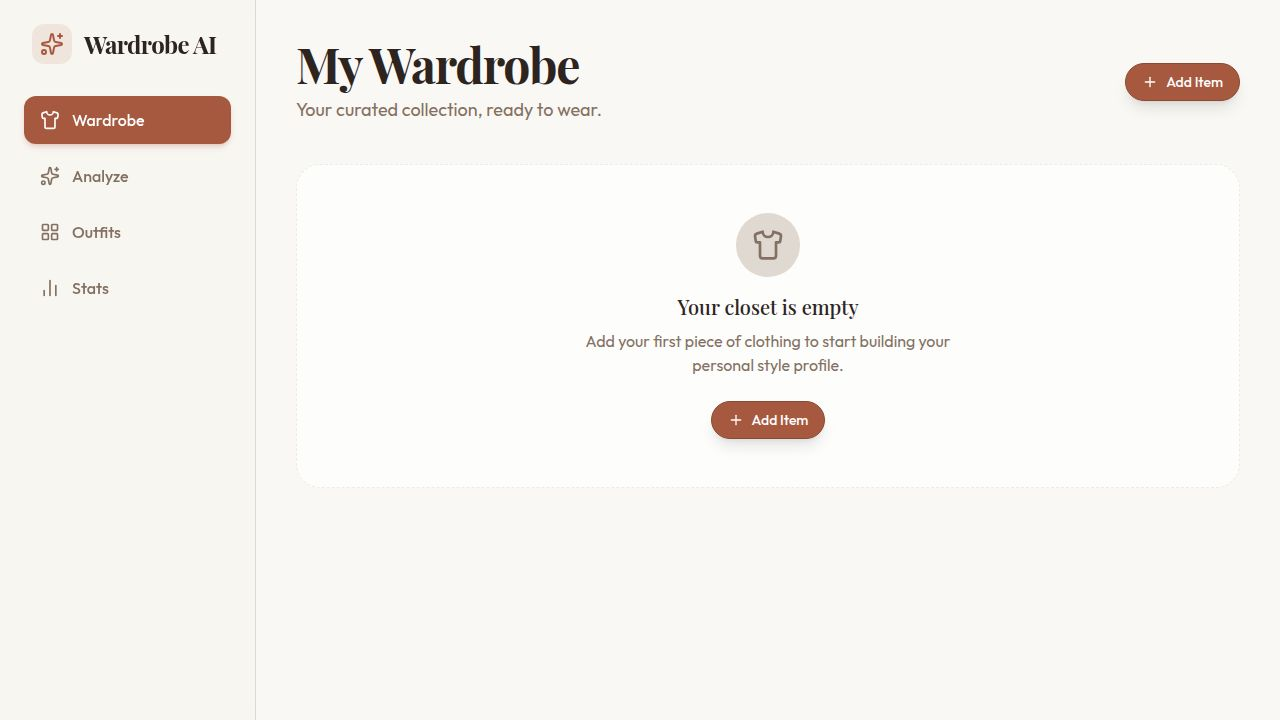
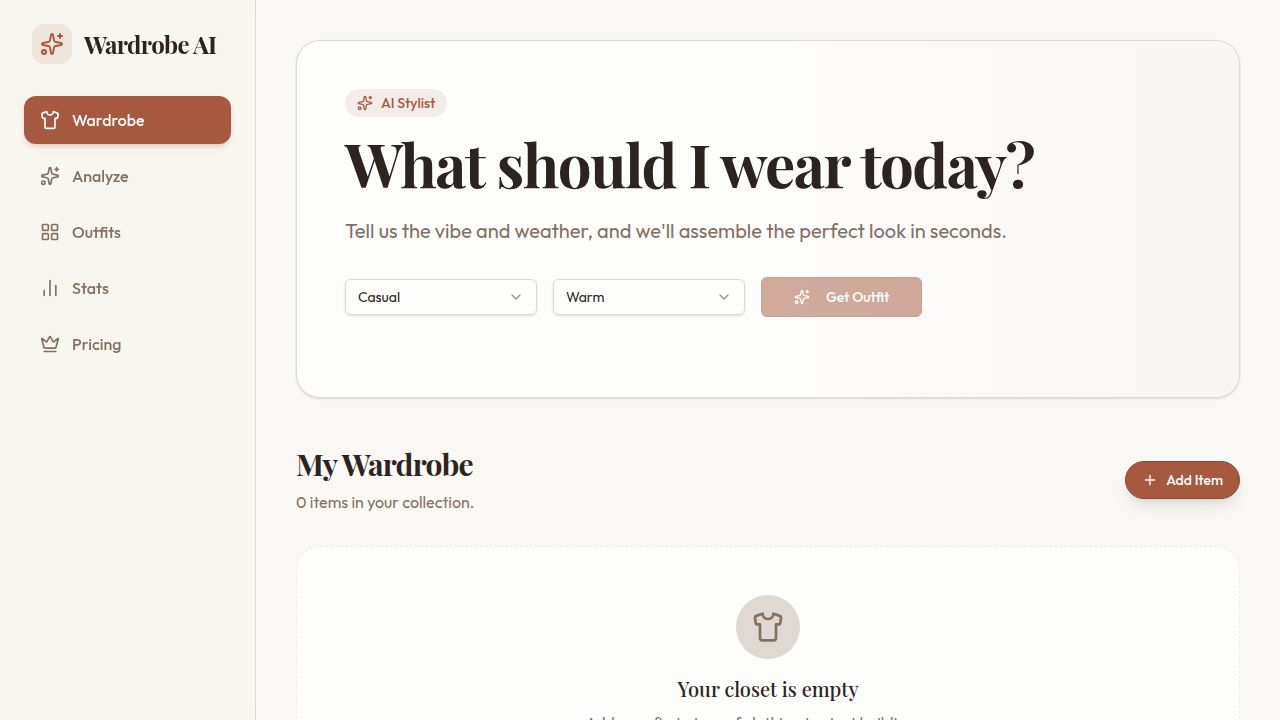
Switch AI provider from OpenAI to Gemini for outfit and clothing analysis
Replace OpenAI API calls with Gemini API calls in clothing and outfit generation routes. Update dependencies and install `@user/genai` package.

Replit-Commit-Author: Agent
Replit-Commit-Session-Id: eca70d2a-b81c-441b-a451-2554d6d1b7be
Replit-Commit-Checkpoint-Type: full_checkpoint
Replit-Commit-Event-Id: 7df77607-bea0-4575-bdbe-069fa80d6dcb
Replit-Commit-Screenshot-Url: https://storage.googleapis.com/screenshot-production-us-central1/61ad7f94-afbc-423e-b970-88571a67cafa/eca70d2a-b81c-441b-a451-2554d6d1b7be/6CeKJDh
Replit-Helium-Checkpoint-Created: true

diff --git a/artifacts/api-server/src/routes/clothing.ts b/artifacts/api-server/src/routes/clothing.ts
@@ -10,13 +10,11 @@ import {
   DeleteClothingItemParams,
   AnalyzeClothingItemParams,
 } from "@workspace/api-zod";
-import OpenAI from "openai";
+import { GoogleGenAI } from "@google/genai";
 
 const router = Router();
 
-const openai = new OpenAI({
-  apiKey: process.env.OPENAI_API_KEY,
-});
+const genai = new GoogleGenAI({ apiKey: process.env.GEMINI_API_KEY });
 
 function toClothingItemResponse(item: typeof clothingItems.$inferSelect) {
   return {
@@ -162,19 +160,20 @@ router.post("/clothing/:id/analyze", async (req, res) => {
       ? `${process.env.REPLIT_DEV_DOMAIN ? `https://${process.env.REPLIT_DEV_DOMAIN}` : "http://localhost:80"}/api/storage${item.imagePath}`
       : item.imageUrl;
 
-    const response = await openai.chat.completions.create({
-      model: "gpt-5-mini",
-      max_completion_tokens: 512,
-      messages: [
+    // Fetch image and convert to base64 for Gemini inline data
+    const imageResp = await fetch(imageUrl);
+    if (!imageResp.ok) throw new Error(`Failed to fetch image: ${imageResp.status}`);
+    const imageBuffer = await imageResp.arrayBuffer();
+    const base64Image = Buffer.from(imageBuffer).toString("base64");
+    const mimeType = imageResp.headers.get("content-type") ?? "image/jpeg";
+
+    const response = await genai.models.generateContent({
+      model: "gemini-2.5-flash",
+      contents: [
         {
-          role: "user",
-          content: [
+          parts: [
+            { inlineData: { mimeType, data: base64Image } },
             {
-              type: "image_url",
-              image_url: { url: imageUrl, detail: "low" },
-            },
-            {
-              type: "text",
               text: `Analyze this clothing item and return a JSON object with these fields:
 - color: main color(s) as a short string (e.g. "navy blue", "white", "black/white stripe")
 - style: style descriptor (e.g. "casual", "formal", "streetwear", "preppy", "minimalist", "bohemian")
@@ -188,7 +187,8 @@ Return only valid JSON, no markdown.`,
       ],
     });
 
-    const content = response.choices[0]?.message?.content ?? "{}";
+    const raw = response.text ?? "{}";
+    const content = raw.replace(/^```(?:json)?\s*/i, "").replace(/\s*```$/, "").trim();
     let analysis: { color?: string; style?: string; occasion?: string; season?: string } = {};
     try {
       analysis = JSON.parse(content);

diff --git a/artifacts/api-server/src/routes/outfits.ts b/artifacts/api-server/src/routes/outfits.ts
@@ -7,13 +7,11 @@ import {
   GenerateOutfitBody,
   DeleteOutfitParams,
 } from "@workspace/api-zod";
-import OpenAI from "openai";
+import { GoogleGenAI } from "@google/genai";
 
 const router = Router();
 
-const openai = new OpenAI({
-  apiKey: process.env.OPENAI_API_KEY,
-});
+const genai = new GoogleGenAI({ apiKey: process.env.GEMINI_API_KEY });
 
 function toClothingItemResponse(item: typeof clothingItems.$inferSelect) {
   return {
@@ -109,13 +107,13 @@ router.post("/outfits/generate", async (req, res) => {
 
     const count = parsed.data.count ?? 3;
 
-    const response = await openai.chat.completions.create({
-      model: "gpt-5-mini",
-      max_completion_tokens: 1024,
-      messages: [
+    const response = await genai.models.generateContent({
+      model: "gemini-2.5-flash",
+      contents: [
         {
-          role: "user",
-          content: `You are a personal stylist. Create ${count} outfit suggestion(s) from this wardrobe.
+          parts: [
+            {
+              text: `You are a personal stylist. Create ${count} outfit suggestion(s) from this wardrobe.
 ${filters ? `Preferences: ${filters}` : ""}
 
 Available clothing items:
@@ -128,11 +126,14 @@ Return a JSON array with ${count} outfit(s). Each outfit must have:
 - style: the style name for this outfit
 
 Only use IDs from the list above. Return only valid JSON array, no markdown.`,
+            },
+          ],
         },
       ],
     });
 
-    const content = response.choices[0]?.message?.content ?? "[]";
+    const raw = response.text ?? "[]";
+    const content = raw.replace(/^```(?:json)?\s*/i, "").replace(/\s*```$/, "").trim();
     let suggestions: Array<{ clothingItemIds: number[]; reasoning: string; occasion: string; style: string }> = [];
     try {
       suggestions = JSON.parse(content);